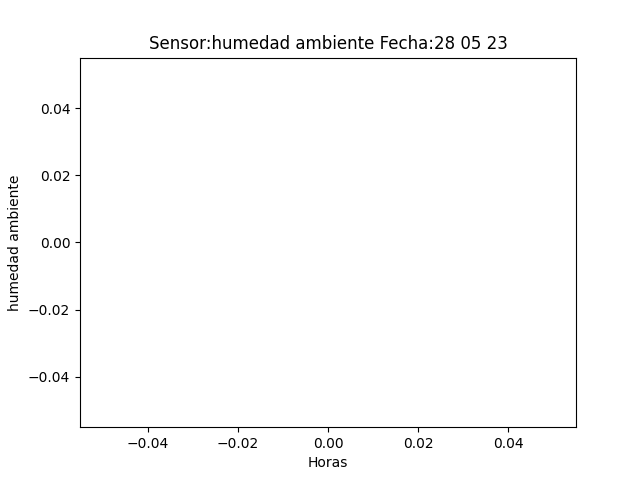
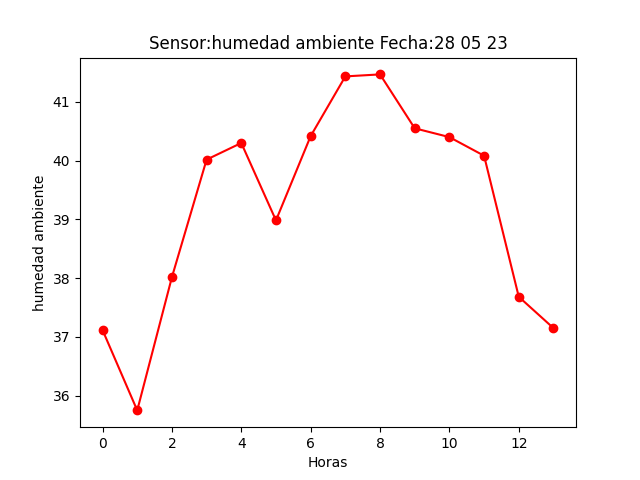
new2905

diff --git a/webpage/templates/visualizar.html b/webpage/templates/visualizar.html
@@ -14,13 +14,15 @@
 <h2> Parámetros en Tiempo real:</h2>
 {% if aguaStatus %}
 <img src=" {{url_for('static', filename = 'images/lluvia.jpg')}}" class = "agua" alt="Imagen">
+<h3 class="textoAgua" > Hay agua disponible</h3>
 {% else %}
 <img src=" {{url_for('static', filename = 'images/sol.jpg')}}" class = "agua" alt="Imagen">
+<h3 class="textoAgua" > No hay agua disponible</h3>
 {% endif %}
 
 <ul>
     <li class="texto">Humedad ambiente actual: <span class ="hum"></span> %</li>
-    <li class="texto">Temperatura actual: <span class ="temp"></span> C</li>
+    <li class="texto">Temperatura actual: <span class ="temp"></span> ℃</li>
     <li class="texto">Humedad de suelo actual: <span class ="hum_suelo"></span> %</li>
     <li class ="texto">ID: <span class ="id" id="identificador"></span></li>
 </ul>

diff --git a/webpage/main.py b/webpage/main.py
@@ -45,7 +45,7 @@ def on_connect(client,userdata,flags,rc):
 def on_message(client,userdata,message):
     global humSuelo, humMinina, humAmbiente, tiempoRegado, temperatura, aguaStatus, idplanta
     data = message.payload.decode().split()
-    print(idplanta) 
+    
     if len(data) == 7:
         if int(data[0]) == idplanta:
             humSuelo[idplanta] = np.round(float(data[1]),2)
@@ -55,7 +55,6 @@ def on_message(client,userdata,message):
             temperatura[idplanta] = np.round(float(data[5]),2)
             aguaStatus[idplanta] = int(data[6])
             print("datos cargados")
-    print(cambiarPlanta)
     if cambiarPlanta:
         client.disconnect()
         print("disconnected")
@@ -104,10 +103,9 @@ def graficarVelocimetro():
 
 @app.route('/visualizar/',methods=['GET'])
 def visualizar():
-    global humMinina, cambiarPlanta, humAmbiente, humSuelo, temperatura, aguaStatus, tiempoRegado, topic, idplanta 
+    global humMinina, humAmbiente, humSuelo, temperatura, aguaStatus, tiempoRegado, topic, idplanta, cambiarPlanta
     idplanta = int(request.cookies.get("numeracion"))
-    cambiarPlanta = 0
-    print(cambiarPlanta)
+    cambiarPlanta = 0 
     topic = 'sensores/{}'.format(idplanta)
     listoThread[idplanta] = Thread(target=conectarMQTT)
     listoThread[idplanta].start()
@@ -137,7 +135,7 @@ def enviarData(datos):
 def dataMqtt():
     global humMinina, humAmbiente, humSuelo, temperatura, aguaStatus, tiempoRegado, topic
     dato = [idplanta, humSuelo[idplanta],humMinina[idplanta], tiempoRegado[idplanta], humAmbiente[idplanta], temperatura[idplanta], aguaStatus[idplanta]]
-    #print(cambiarPlanta)
+    #print(dato)
     response = make_response(json.dumps(dato))
     return response 
 
@@ -147,6 +145,7 @@ def datos():
     parametro = request.cookies.get("parametro")
     fecha = request.cookies.get("fecha")
     dato = '{} {} {}'.format(lugar, parametro, fecha)
+    print(dato)
     generar = 'python graficar.py "{}" "{}" "{}"'.format(lugar, fecha, parametro)
     print(generar)
     os.system(generar)
@@ -161,4 +160,4 @@ def home():
     return  render_template("home.html")
 
 if __name__ == "__main__":
-    app.run(host= "192.168.50.155", debug=True, port=5010)
+    app.run(debug=True, port=5010)

diff --git a/webpage/graficar.py b/webpage/graficar.py
@@ -35,9 +35,10 @@ def main():
     place = sys.argv[1]
     fecha = sys.argv[2]
     variable = sys.argv[3]
+    placenew = '0'+place
 
-    sala = datos[(datos["Place"]== place)&(datos["Fecha"]== fecha)].reset_index(drop=True)
-    #print(sala)
+    sala = datos[(datos["Place"]== placenew)&(datos["Fecha"]== fecha)].reset_index(drop=True)
+    print(sala)
 
     for index, row in sala.iterrows():
         sala.loc[index,"Hora"] = row["Hora"][:-6]
